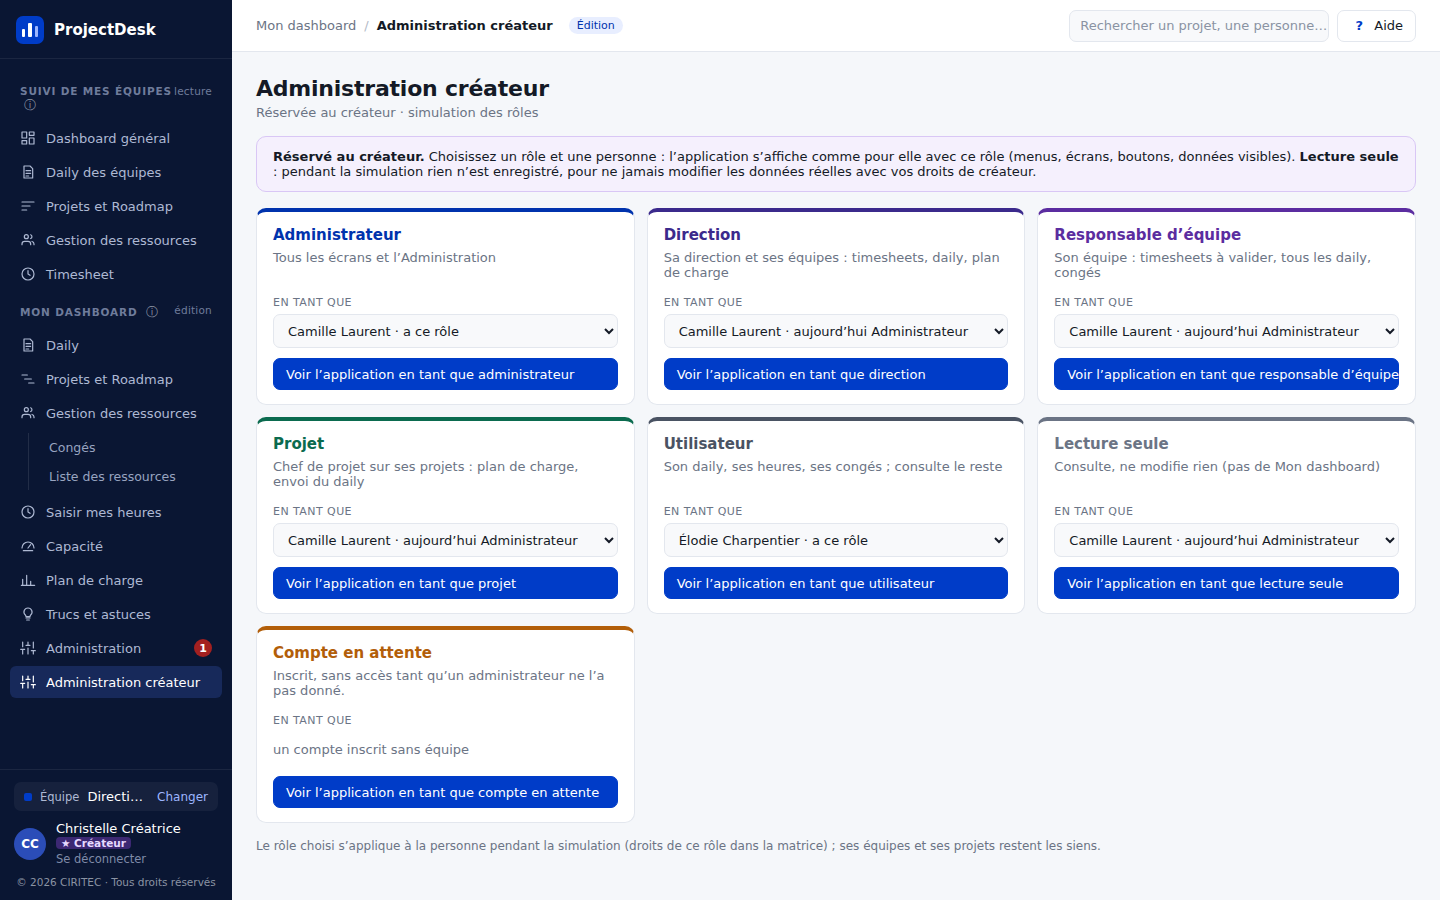
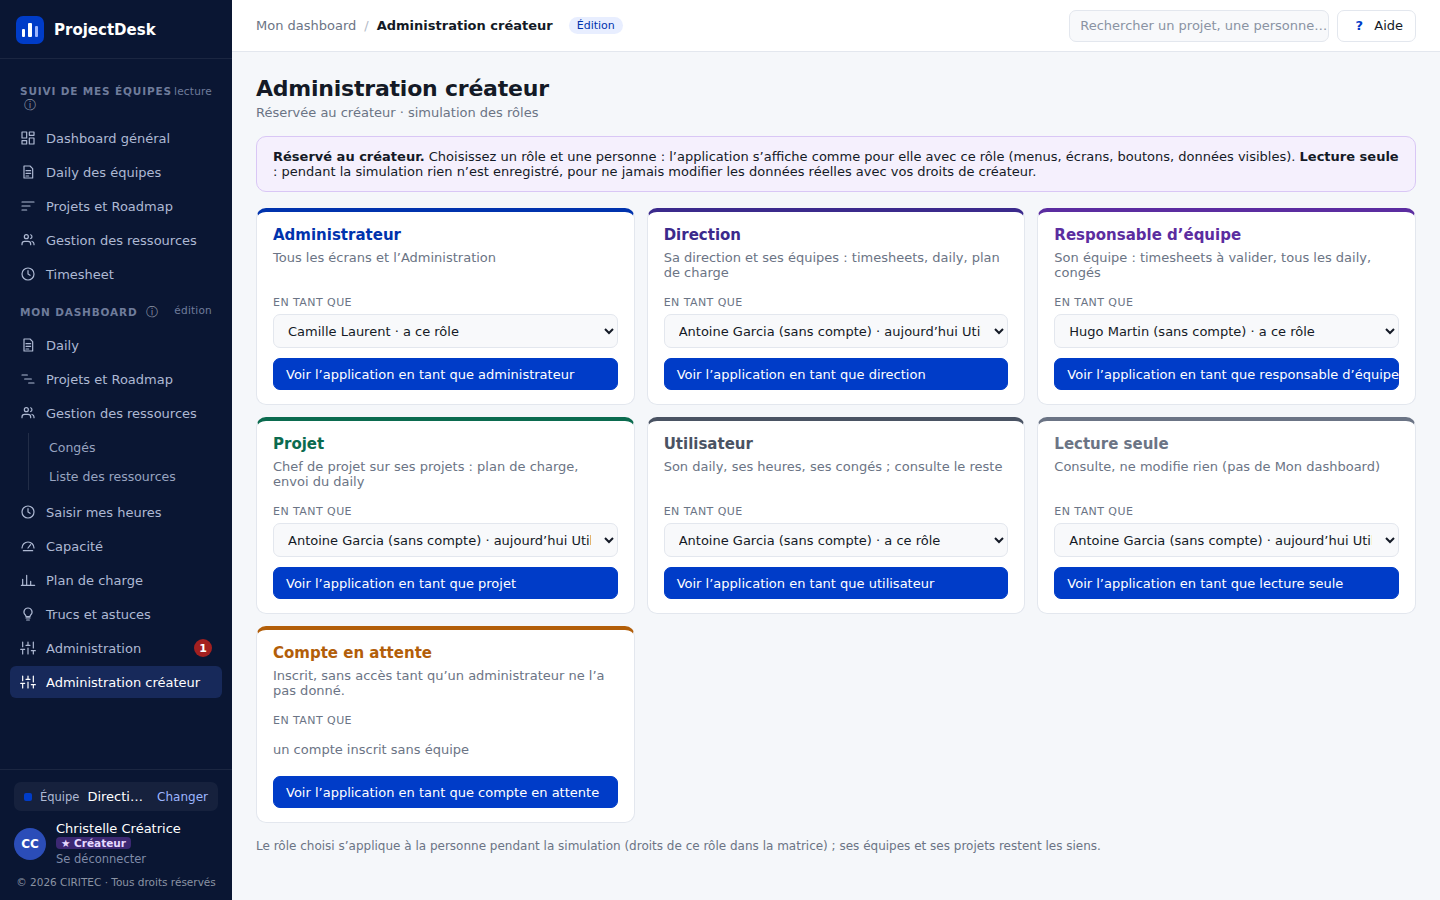
Simulation : fiches sans compte proposées en phase de recette (2.35)
Toutes les fiches actives sont simulables, marquées « (sans compte) »
quand elles ne sont reliées à aucun compte (leurs écrans personnels
sont vides). Base inchangée.

Claude-Session: https://claude.ai/code/session_0187v8SY8uiT6dnWqjjqJYb6

diff --git a/app/index.html b/app/index.html
@@ -11,7 +11,7 @@
 <link href="https://fonts.googleapis.com/css2?family=IBM+Plex+Sans:wght@400;500;600;700&family=IBM+Plex+Mono:wght@400;500&display=swap" rel="stylesheet">
 <!-- ?v= : version des fichiers (= version du DAT), à changer à chaque livraison : force le navigateur
      à recharger le code au lieu de réutiliser une ancienne copie en mémoire. -->
-<link rel="stylesheet" href="css/theme.css?v=2.34">
+<link rel="stylesheet" href="css/theme.css?v=2.35">
 </head>
 <body>
   <!-- Toute l'interface est dessinée dans #app par js/coquille.js et js/ecrans/*.js -->
@@ -19,33 +19,33 @@
   <div id="notification" class="notification" role="status"></div>
 
   <!-- Ordre de chargement : configuration, outils, état, puis écrans (qui s'enregistrent dans Ecrans) -->
-  <script src="js/config.js?v=2.34"></script>
-  <script src="js/api.js?v=2.34"></script>
-  <script src="js/calculs.js?v=2.34"></script>
-  <script src="js/etat.js?v=2.34"></script>
-  <script src="js/composants.js?v=2.34"></script>
-  <script src="js/coquille.js?v=2.34"></script>
-  <script src="js/panneau-projet.js?v=2.34"></script>
-  <script src="js/modale.js?v=2.34"></script>
-  <script src="js/excel.js?v=2.34"></script>
-  <script src="js/roles.js?v=2.34"></script>
-  <script src="js/simulation.js?v=2.34"></script>
-  <script src="js/ecrans/connexion.js?v=2.34"></script>
-  <script src="js/ecrans/choix-equipe.js?v=2.34"></script>
-  <script src="js/ecrans/dashboard.js?v=2.34"></script>
-  <script src="js/ecrans/projets.js?v=2.34"></script>
-  <script src="js/ecrans/ressources.js?v=2.34"></script>
-  <script src="js/ecrans/administration.js?v=2.34"></script>
-  <script src="js/ecrans/timesheet.js?v=2.34"></script>
-  <script src="js/ecrans/daily-equipes.js?v=2.34"></script>
-  <script src="js/ecrans/daily.js?v=2.34"></script>
-  <script src="js/ecrans/mes-projets.js?v=2.34"></script>
-  <script src="js/ecrans/conges.js?v=2.34"></script>
-  <script src="js/ecrans/capacite.js?v=2.34"></script>
-  <script src="js/ecrans/liste-ressources.js?v=2.34"></script>
-  <script src="js/ecrans/mon-timesheet.js?v=2.34"></script>
-  <script src="js/ecrans/previsionnel.js?v=2.34"></script>
-  <script src="js/ecrans/mon-admin.js?v=2.34"></script>
-  <script src="js/ecrans/astuces.js?v=2.34"></script>
+  <script src="js/config.js?v=2.35"></script>
+  <script src="js/api.js?v=2.35"></script>
+  <script src="js/calculs.js?v=2.35"></script>
+  <script src="js/etat.js?v=2.35"></script>
+  <script src="js/composants.js?v=2.35"></script>
+  <script src="js/coquille.js?v=2.35"></script>
+  <script src="js/panneau-projet.js?v=2.35"></script>
+  <script src="js/modale.js?v=2.35"></script>
+  <script src="js/excel.js?v=2.35"></script>
+  <script src="js/roles.js?v=2.35"></script>
+  <script src="js/simulation.js?v=2.35"></script>
+  <script src="js/ecrans/connexion.js?v=2.35"></script>
+  <script src="js/ecrans/choix-equipe.js?v=2.35"></script>
+  <script src="js/ecrans/dashboard.js?v=2.35"></script>
+  <script src="js/ecrans/projets.js?v=2.35"></script>
+  <script src="js/ecrans/ressources.js?v=2.35"></script>
+  <script src="js/ecrans/administration.js?v=2.35"></script>
+  <script src="js/ecrans/timesheet.js?v=2.35"></script>
+  <script src="js/ecrans/daily-equipes.js?v=2.35"></script>
+  <script src="js/ecrans/daily.js?v=2.35"></script>
+  <script src="js/ecrans/mes-projets.js?v=2.35"></script>
+  <script src="js/ecrans/conges.js?v=2.35"></script>
+  <script src="js/ecrans/capacite.js?v=2.35"></script>
+  <script src="js/ecrans/liste-ressources.js?v=2.35"></script>
+  <script src="js/ecrans/mon-timesheet.js?v=2.35"></script>
+  <script src="js/ecrans/previsionnel.js?v=2.35"></script>
+  <script src="js/ecrans/mon-admin.js?v=2.35"></script>
+  <script src="js/ecrans/astuces.js?v=2.35"></script>
 </body>
 </html>

diff --git a/app/js/simulation.js b/app/js/simulation.js
@@ -28,14 +28,16 @@ const Simulation = {
   // Onglet réservé au créateur (masqué pendant une simulation : le bandeau permet d'en changer ou d'en sortir)
   estDisponible: () => etat.estCreateur,
 
-  /* Personnes proposées pour un rôle : toutes les fiches actives reliées à un compte, celles qui ont déjà
-     ce rôle en tête (« · a ce rôle »), puis les autres avec leur rôle actuel. Le rôle de la carte leur est
-     appliqué le temps de la simulation (monRole) ; leurs équipes et leurs projets restent les leurs. */
+  /* Personnes proposées pour un rôle : toutes les fiches actives, celles qui ont déjà ce rôle en tête
+     (« · a ce rôle »), puis les autres avec leur rôle actuel. Le rôle de la carte leur est appliqué le temps
+     de la simulation (monRole) ; leurs équipes et leurs projets restent les leurs. Fiches sans compte
+     comprises, marquées « (sans compte) » (phase de recette, porteur 2026-10-23, maquette simulation-sans-compte/) :
+     leurs écrans personnels (Daily, Saisir mes heures) sont vides. */
   personnes(cle) {
     const actuel = r => Roles.roleChoisi(r);
-    return ressourcesActives().filter(r => r.userId)
+    return ressourcesActives()
       .sort((a, b) => (actuel(b) === cle) - (actuel(a) === cle) || a.nom.localeCompare(b.nom))
-      .map(r => ({ valeur: r.id, libelle: `${r.nom} · ${actuel(r) === cle ? 'a ce rôle' : 'aujourd’hui ' + ROLES_ACCES[actuel(r)].libelle}` }));
+      .map(r => ({ valeur: r.id, libelle: `${r.nom}${r.userId ? '' : ' (sans compte)'} · ${actuel(r) === cle ? 'a ce rôle' : 'aujourd’hui ' + ROLES_ACCES[actuel(r)].libelle}` }));
   },
 
   /* Démarre (ou change) la simulation : identité réelle mise de côté, identité simulée posée.

diff --git a/tests/parcours.js b/tests/parcours.js
@@ -916,6 +916,15 @@ const verifier = (nom, condition, detail = '') => { resultats.push({ nom, ok: !!
     const cartesSimulation = await page.$$eval('.grille-simulation > .carte b', b => b.map(x => x.textContent.trim()));
     verifier('Simulation : une carte par rôle d’accès (Administrateur … Lecture seule) et Compte en attente',
       cartesSimulation.join('|') === 'Administrateur|Direction|Responsable d’équipe|Projet|Utilisateur|Lecture seule|Compte en attente', cartesSimulation.join(', '));
+    // Phase de recette (2026-10-23) : fiches sans compte proposées, marquées « (sans compte) »
+    const simulationSansCompte = await page.evaluate(() => {
+      const option = [...document.querySelectorAll('select[name="personne-responsable"] option')].find(o => o.textContent.includes('(sans compte)'));
+      if (!option) return null;
+      Simulation.demarrer('responsable', option.value);
+      const ok = !!document.querySelector('.bandeau-simulation') && maRessource().id === option.value && !maRessource().userId;
+      Simulation.arreter(); return ok;
+    });
+    verifier('Simulation : fiches sans compte proposées (« sans compte ») et simulables', simulationSansCompte === true, String(simulationSansCompte));
     await page.evaluate(() => { const liste = document.querySelector('select[name="personne-utilisateur"]');
       liste.value = [...liste.options].find(o => o.textContent.startsWith('Thomas Bernard')).value; });
     await page.click('[data-action="demarrerSimulation"][data-role="utilisateur"]'); await page.waitForTimeout(300);

diff --git a/docs/DAT.md b/docs/DAT.md
@@ -149,6 +149,7 @@
 | 2.32    | 2026-10-23 | **Planning des sprints** dans Suivi de mes équipes › Projets et Roadmap (porteur : « un planning de MEP et un planning des sprints » ; maquette `roadmap-mep-sprints/` validée, Roadmap et Mon dashboard reportés) : onglets Projets / Planning des sprints (`PlanningSprints`, projets.js), lecture seule, base inchangée. Planning des MEP en attente (source des données à décider). 142 contrôles (§ 3.2) |
 | 2.33    | 2026-10-23 | **Planning des MEP** (porteur : « la saisie se fera dans mon dashboard, tu peux créer maintenant ») : migration **039** additive (table `mises_en_production`, RLS comme `sprints_projet` ; appliquée, comptages inchangés, Data API rechargée) ; Suivi › Projets et Roadmap : onglet Planning des MEP (`PlanningMep`, lecture) ; Mon dashboard › Projets et Roadmap : onglets Gantt / **MEP** (saisie) ; `STATUTS_MEP` (config.js), `misesEnProductionDe`, `badgeMep` (etat.js). 144 contrôles (§ 3, § 4) |
 | 2.34    | 2026-10-23 | **Capacité › Répartition saisie à la main** (porteur : « la répartition doit être saisie manuellement », choix « % par sprint » ; maquette `capacite-repartition-saisie/` validée « go ») : migration **040** additive (colonne `part` de `repartitions_sprint`, `jours` facultatif ; appliquée, comptages inchangés, Data API rechargée) ; part idéale saisie par sprint, suggestion en grisé non comptée, alerte si total ≠ 100 % ; `Calculs.repartitionSprint(disponible, parts)`. 145 contrôles (§ 3, § 4, § 6) |
+| 2.35    | 2026-10-23 | **Simulation : fiches sans compte** (porteur : Anne Caselli introuvable, « on peut créer des comptes sans e-mail pour le moment car on est en phase de recette » ; maquette `simulation-sans-compte/` validée « ok ») : `Simulation.personnes` propose toutes les fiches actives, « (sans compte) » si non reliées. Base inchangée. 146 contrôles (§ 3.3) |
 | 1.44    | 2026-09-27 | Calcul type Scrum : formule déplacée dans une pop-in (bouton « Comment est-ce calculé ? » en haut à droite), avec un exemple chiffré sur CDO (membres, jours ouvrés, absences, cérémonies, focus) (§ 2.1, § 3.3) |
 
 ---
@@ -278,7 +279,7 @@ règlent l'**affichage** ; ce qu'on peut modifier reste contrôlé par la base (
 | `listeRessources` | `liste-ressources.js` | Maquette `liste-ressources-ux/3-navigation-detail.png` (depuis 1.90). **Navigation à gauche** : les équipes (le niveau direction n'est pas affiché : les équipes d'une direction sont listées directement ; une direction reste listée si elle porte elle-même des projets ou des personnes, ou si elle est vide), sous chacune son responsable (`responsable_id`) et ses projets (nombre de personnes) ; recherche sur équipes, projets et personnes ; en bas **Postes** et **Types de contrat**. **Détail à droite** de l'élément choisi (`ui.listeRessources.choix`, défaut : équipe ouverte) — *équipe* : modifier / supprimer (unité vide seulement), carte du responsable (« Hors projet » s'il n'est affecté à aucun projet, « Comptée dans Congés & capacité »), tableau des projets (statut, Product Owners, membres ; clic → projet), **Membres de l'équipe** (toute l'équipe, avec ses projets « VISTA · PO », puis la section « Rattachées depuis une autre équipe » : `membres_equipe`, badge « Équipe d'origine », « Retirer »), « + Projet », « + Personne existante » (rattacher, même sans projet ; maquette `membres-equipe/`), « + Personne » ; *projet* : indicateurs (Product Owners, membres, départs prévus), « Modifier le projet », **Product Owners** = affectations au rôle « Chef de projet » (+ chef de la fiche projet), plusieurs possibles, « + Ajouter un Product Owner » ; **Membres** (et lecteurs) avec rôle, « + Membre » ; *Postes / Types de contrat* : valeurs, nombre de ressources, statut, renommage (propagé aux fiches), suppression si inutilisée. Tableaux de personnes (depuis 1.93, maquette `role-acces/`) : sections **Actifs** et **Inactifs** repliables, poste, **Accès** (rôle d'accès : `roleAcces`), projets ou rôle sur le projet, **présence en clair** (`Calculs.libellePresence` : « depuis le … », « jusqu'au … », « partie le … »), statut **Inactif dès qu'une date de fin est saisie** (badge cliquable : rendre inactive / réactiver), lien Fiche (dates d'arrivée et de départ, **rôle d'accès**, ses projets). « + Ajouter une équipe » (administrateurs). Ouvert **sans équipe** pour un administrateur | `12-liste-ressources.png`, `18-postes.png` |
 | `monTimesheet` | `mon-timesheet.js` | Menu **Saisir mes heures** de Mon dashboard, juste sous Gestion des ressources (menu à part depuis 2.28 ; rangé sous Gestion des ressources de 1.79 à 2.27) — saisie **mensuelle** (maquette `saisie-mensuelle/`) : une ligne par projet où je suis affecté (Chef de projet ou Membre), une colonne par jour de semaine du mois ; JF (férié), Abs (absence d'une journée), — (hors présence) non saisissables, demi-journée saisissable ; totaux par projet, par jour et du mois / attendu ; « Soumettre le mois » | `13-mon-timesheet.png` |
 | `monAdmin` | `mon-admin.js` | **Rôles** (tous les administrateurs depuis 2.03, `roles.js`, maquettes `liste-roles/`, `affecter-roles/`, `tableau-roles/` et `roles-droits/`) : trois vues — **Matrice des droits** (13 droits × 6 rôles, Oui / Lecture / Non, depuis 2.08) ; tableau « Utilisateurs et rôles » (utilisateur, équipe, projets avec le rôle sur chacun, compte relié, poste, rôle) ; rôle d'accès de chaque personne (Administrateur, Responsable d'équipe, Membre de l'équipe) choisi dans une liste et enregistré aussitôt — rôle prévu si la personne n'est pas encore connectée ou n'a pas vérifié son email ; filtres équipe, rôle, recherche ; puis qui a quel rôle (cartes). **★ Simulation des rôles** (créateur seulement, `simulation.js`, maquette `simulation-roles/`, depuis 1.85) : voir l'application en tant qu'Administrateur, Responsable d'équipe, Chef de projet, Membre, Lecteur de projet ou Compte sans équipe, avec une personne réelle de ce rôle ; bandeau violet en haut de chaque écran (changer de rôle, revenir) ; lecture seule. **Comptes en attente** (administrateurs, maquette `comptes-en-attente/`, depuis 1.83) : inscrits sans équipe (`comptes_en_attente()`), choix de l'équipe, de la fiche ressource (fiche sans compte proposée si l'email ou le prénom correspond, ou « Créer sa fiche ») et du rôle (Membre / Admin d'équipe), « Donner l'accès » = email du compte posé sur la fiche (reliée à la connexion par `lier_ma_ressource`) + invitation dans l'équipe, « Ignorer » (`comptes_ignores`) ; pastille rouge sur le menu Administration. **Envoi du daily** (une ligne par **projet en cours**, depuis 1.73 ; réglable par administrateur, chef du projet ou responsable de son unité — mode, heure, jours, sauf fériés, destinataires ; « Configurer le flux » Power Automate, fenêtre `Modale.envoiPowerAutomate`) ; **Sprints** (sprints de chaque projet : Sprint n°, année, version, début, fin ; affichage par année) ; **Équipes** (créer / modifier, membres, invitations — administrateurs et responsables) ; **Référentiels** et **Jours fériés** (administrateurs : ajout, date, libellé, suppression, par année). Ouvert sans équipe pour un administrateur. (Demandes entrantes et formulaire de demande retirés le 2026-10-05 : gérés dans Azure DevOps.) | `14-mon-admin.png`, `26-comptes-en-attente.png`, `27b-roles.png`, `32-matrice-droits.png`, `28-simulation-roles.png`, `29-simulation-en-cours.png` |
-| `adminCreateur` | `simulation.js` | **Administration créateur** (menu de Mon dashboard juste sous Administration, visible du créateur seul ; 2.31, maquette `admin-createur/`) : **Simulation des rôles** (cartes des 6 rôles d'accès + Compte en attente, rôle appliqué pendant la simulation, lecture seule) — auparavant onglet « ★ Simulation des rôles » d'Administration ; « Revenir à mon rôle de créateur » ramène sur cet écran | `28-simulation-roles.png` |
+| `adminCreateur` | `simulation.js` | **Administration créateur** (menu de Mon dashboard juste sous Administration, visible du créateur seul ; 2.31, maquette `admin-createur/`) : **Simulation des rôles** (cartes des 6 rôles d'accès + Compte en attente, rôle appliqué pendant la simulation, lecture seule ; toutes les fiches actives proposées, y compris **sans compte** — mention « (sans compte) », écrans personnels vides — phase de recette, 2.35, maquette `simulation-sans-compte/`) — auparavant onglet « ★ Simulation des rôles » d'Administration ; « Revenir à mon rôle de créateur » ramène sur cet écran | `28-simulation-roles.png` |
 | `previsionnel` | `previsionnel.js` | **Plan de charge** (maquette `previsionnel-temps/`) — menu visible du **créateur uniquement** (porteur, 2026-10-22 ; auparavant chefs de projet et administrateurs), masqué aussi pendant une simulation de rôle. Choix d'une personne affectée (hors Lecteur) à un projet que je pilote (moi par défaut). Onglet **Prévisionnel** : 12 mois (‹ › décale d'un mois), lignes jours ouvrés (hors fériés), congés (Congés & capacité), jours travaillés, disponibles si capacité < 100 %, puis par projet en cours de la personne : % du temps (`previsions_temps`) et ses types de tâche avec % cible (`types_tache_projet` : libellé modifiable, ajout, suppression), sous-total « Total hors US » si le projet a un type « US », contrôle Σ = 100 % ; unité jours ou heures (× `HEURES_PAR_JOUR`). Les % ne sont modifiables que sur les projets que je pilote (lecture sinon). Onglet **Temps réel par sprint** : sprints datés d'un projet de la personne (CDO par défaut), capacité du sprint (`Calculs.heuresAttenduesJours`), par projet heures prévues (capacité × %), heures saisies (Saisir mes heures), jours, % réel, écart en points, consommé / prévu | `23-previsionnel.png`, `24-previsionnel-reel.png` |
 | `astuces` | `astuces.js` | **Trucs et astuces** (menu à part de Mon dashboard depuis le 2026-10-05, auparavant onglet d'Administration). Trois boutons de thème (depuis 1.97, maquette `astuces-agile-roadmap/` ; **Test & Learn** depuis 2.15, maquette `astuces-test-learn/` : méthode des projets IA — boucle, carte d'expérience, phases go / no-go, indicateurs IA, rituels, conseils ; textes `TEST_AND_LEARN`) : **Agile** (onglets KPI Agile et Rôles Scrum) et **Roadmap** (fiche pratique en lecture seule : définition, chaîne vision → objectifs → roadmap → backlog → sprint, trois formats de roadmap, format conseillé selon la méthode du projet, bonnes pratiques et pièges ; textes `ROADMAP_ASTUCES`, `config.js`). Onglet KPI Agile : KPI Agile Scrum et Kanban de `KPI_AGILE`, avec un exemple chiffré par KPI calculé sur un projet choisi, CDO par défaut — « réel » si les données existent, sinon « illustratif » ; lecture seule. Onglet **Rôles Scrum (organigramme)** (maquette `organigramme-scrum/`) : organigramme détaillé — sponsor / direction métier et parties prenantes ; équipe Scrum avec Product Ownership partagé entre **PO fonctionnel** et **PO technique** (backlog unique co-priorisé) et Scrum Master transverse ; équipe de développement : **tech lead**, développeurs, **QA / testeurs**, UX/UI et DevOps si besoin ; chaque carte : mission, responsabilités, liens clés, cérémonies ; puis tableau « qui fait quoi » (● responsable, ○ contribue). Textes : `ROLES_SCRUM`, `FAMILLES_ROLES_SCRUM`, `QUI_FAIT_QUOI_SCRUM` (`config.js`) | `19-astuces.png`, `19b-astuces-roadmap.png`, `19c-astuces-test-learn.png`, `25-roles-scrum.png` |
 
@@ -514,7 +515,7 @@ refusée sur `referentiels` et `administrateurs` (usurpation).
 | Outil | Contenu |
 |-------|---------|
 | `tests/serveur-simule.js` | Neon Auth (dont Google simulé) + Data API simulés en mémoire, identifiants numérotés (et non aléatoires) pour des captures reproductibles, données de la maquette (comptes `camille@test.fr` administratrice/owner, `thomas@test.fr` membre, `elodie@test.fr` demandeuse, `admin@test.fr` administratrice sans équipe ; mot de passe `motdepasse`) |
-| `tests/parcours.js` | Parcours Playwright de bout en bout (145 contrôles, dont « Suivi de mes équipes en lecture seule », l'aller-retour Google simulé, le parcours administrateur sans équipe, le daily des équipes, l'export Excel du daily, le plan de charge et le board des ressources) + captures `docs/maquettes/etat-actuel/` |
+| `tests/parcours.js` | Parcours Playwright de bout en bout (146 contrôles, dont « Suivi de mes équipes en lecture seule », l'aller-retour Google simulé, le parcours administrateur sans équipe, le daily des équipes, l'export Excel du daily, le plan de charge et le board des ressources) + captures `docs/maquettes/etat-actuel/` |
 | `scripts/verifier-docs.js` | Cohérence documentation ↔ code après chaque commit (§ 11) |
 
 Les règles RLS ne sont pas simulées : elles sont vérifiées en base et lors de la recette réelle.
